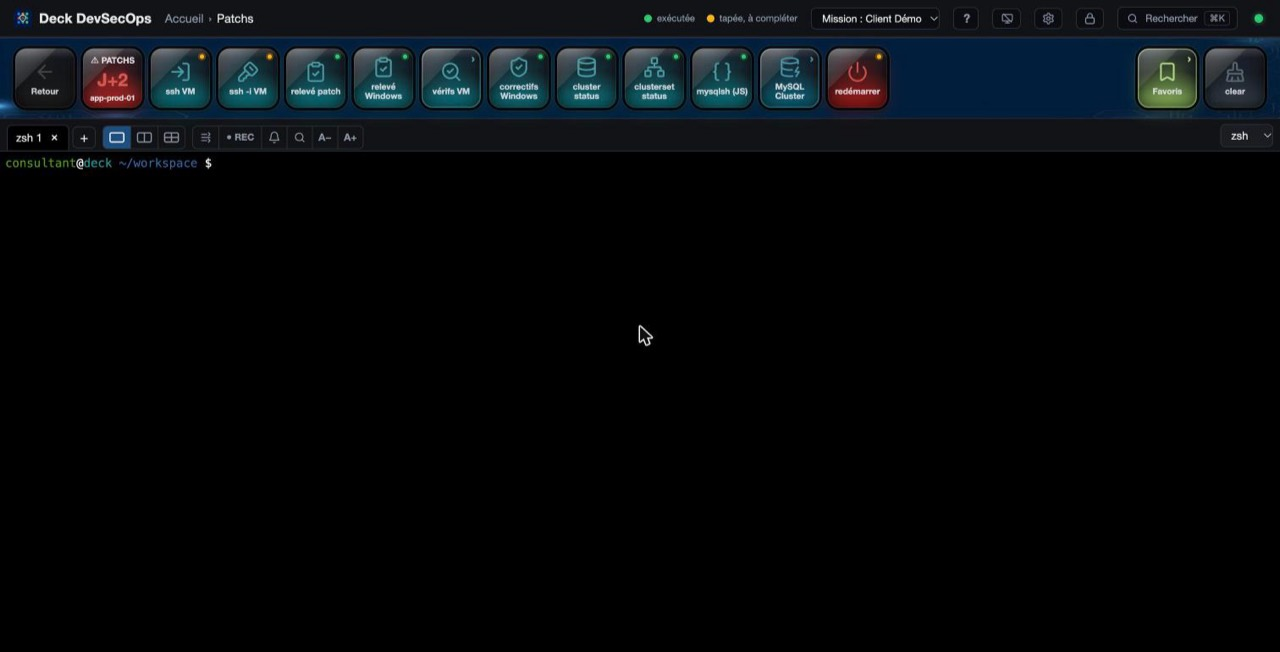
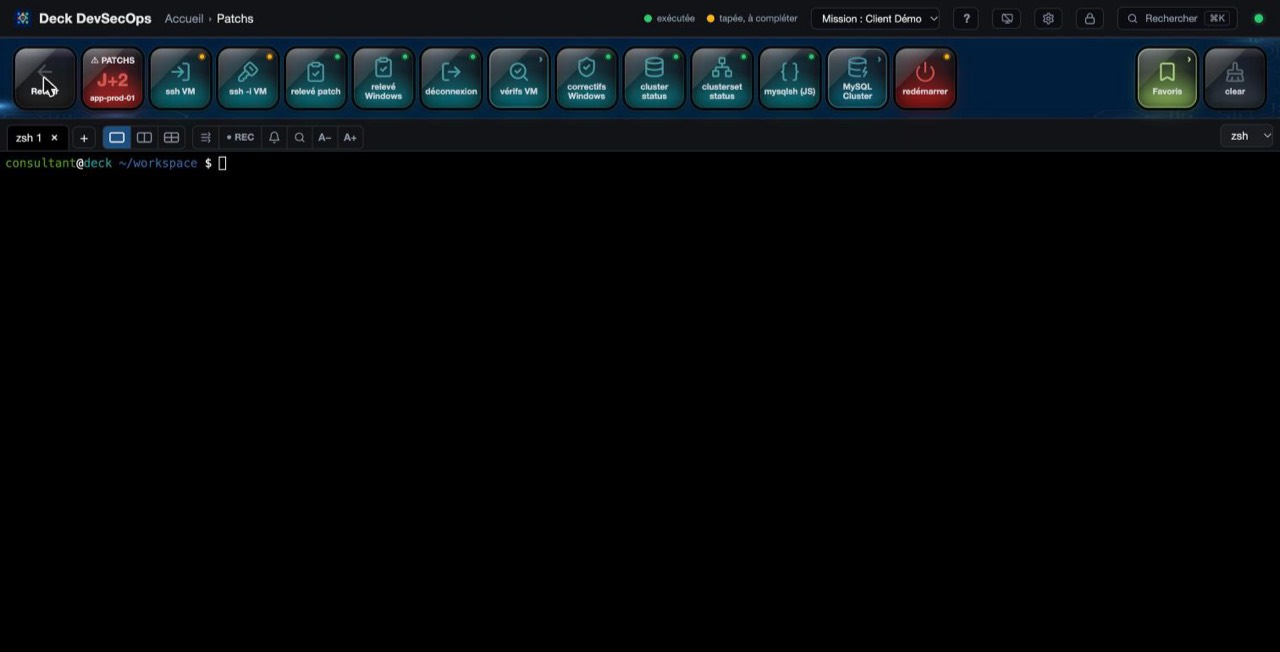
Patchs : MAJ (yum), infos VM, déconnexion ; historique corrigé
- vérifs VM : « infos VM » (hostnamectl, os-release, uname -r, uptime -s) et
  « MAJ (yum) » (RHEL / CentOS 7) ; sécurité seule et historique utilisent dnf
  ou yum selon la VM.
- historique : n'affichait rien sur une VM dnf (bash) et échouait sous zsh.
- « déconnexion » : exit seulement dans une session ssh (sans effet en local).

diff --git a/public/i18n/en.js b/public/i18n/en.js
@@ -60,6 +60,10 @@ export default {
     "Mises à jour en attente (Debian, Ubuntu)": "Pending updates (Debian, Ubuntu)",
     "Mises à jour en attente (RHEL, Rocky, Fedora)": "Pending updates (RHEL, Rocky, Fedora)",
     "Mises à jour de sécurité en attente": "Pending security updates",
+    "Mises à jour de sécurité en attente (dnf, yum ou apt)": "Pending security updates (dnf, yum or apt)",
+    "Mises à jour en attente avec yum (RHEL / CentOS 7 et plus anciennes)": "Pending updates with yum (RHEL / CentOS 7 and older)",
+    "Derniers paquets mis à jour (apt, dnf ou yum)": "Latest updated packages (apt, dnf or yum)",
+    "MAJ (yum)": "updates (yum)",
     "Un redémarrage est-il nécessaire ?": "Is a reboot needed?",
     "Noyau, uptime et dernier démarrage": "Kernel, uptime and last boot",
     "Derniers paquets mis à jour": "Latest updated packages",
@@ -1429,7 +1433,11 @@ export default {
     "relevé patch": "patch survey",
     "relevé Windows": "Windows survey",
     "vérifs VM": "VM checks",
-    "Vérifications détaillées sur la VM : MAJ (apt, dnf), sécurité, reboot, noyau, historique": "Detailed checks on the VM: updates (apt, dnf), security, reboot, kernel, history",
+    "infos VM": "VM info",
+    "déconnexion": "logout",
+    "Informations de la VM : hostnamectl, /etc/os-release, noyau (uname -r), dernier redémarrage (uptime -s)": "VM information: hostnamectl, /etc/os-release, kernel (uname -r), last reboot (uptime -s)",
+    "Quitte la session ssh de la VM (exit) ; sans effet dans un terminal local": "Leaves the VM's ssh session (exit); no effect in a local terminal",
+    "Vérifications détaillées sur la VM : infos (OS, noyau, dernier redémarrage), MAJ (apt, dnf, yum), sécurité, reboot, historique": "Detailed checks on the VM: info (OS, kernel, last reboot), updates (apt, dnf, yum), security, reboot, history",
     "Relève sur la VM connectée : dernier patch, MAJ en attente, sécurité, redémarrage ; l'inventaire est mis à jour": "Surveys the connected VM: last patch, pending updates, security, reboot; the inventory is updated",
     "Relève sur un serveur Windows (PowerShell) : dernier correctif (KB), redémarrage ; l'inventaire est mis à jour": "Surveys a Windows server (PowerShell): last hotfix (KB), reboot; the inventory is updated",
     "relevé de {0} : {1}": "survey of {0}: {1}",

diff --git a/README.md b/README.md
@@ -207,7 +207,7 @@ Après une modification de `config.jsonc` ou `paths.json`, redémarrer le serveu
 
 ## Patchs des VMs
 
-Rubrique **Patchs** (à cocher dans Réglages › Rubriques) : inventaire de tes VMs (nom, hôte SSH, clé SSH pour `ssh -i`, environnement, tags libres (`linux, dmz, critique`), description, dernier et prochain patch, fréquence) dans `patches.json` (hors Git, sauvegardé, inclus dans la configuration complète). Le **voyant patchs** affiche la VM la plus urgente (J-3, J, J+2 en retard) : vert, **orange à 7 jours ou moins**, **rouge à J-1, le jour même ou en retard** ; alertes une fois par seuil comme pour les certificats. **Patché** met le dernier patch à aujourd'hui et recalcule le prochain avec la fréquence (noté dans le journal). Touches **ssh VM** et **ssh -i VM** (clé puis hôte, listes réelles) ; **relevé patch** / **relevé Windows** : dans le terminal connecté à la VM, commande en lecture seule (sans sudo) qui imprime une ligne repère `DECK-PATCH …` lue par le deck : dernier patch réel (prochain recalculé), mises à jour en attente, sécurité, redémarrage requis ; **sécurité en attente = VM en orange** ; bouton **SSH** de l'inventaire avec la clé de la VM si elle est renseignée. Touches de vérification sur la VM après un ssh : mises à jour en attente (apt / dnf), sécurité, redémarrage requis, noyau, historique, correctifs Windows. **Import en masse** depuis un CSV (Excel : séparateur `;`, dates JJ/MM/AAAA ; colonnes nom, hote, cle, environnement, dernier_patch, prochain_patch, frequence, tags, description) avec aperçu avant confirmation (ajout ou mise à jour par nom, jamais de suppression), **export CSV** réimportable et modèle à remplir. **Terminal connecté à une VM** : cadre de couleur autour du terminal (rouge en production, bleu sinon), étiquette accrochée au cadre (« SSH · app-prod-01 · production ») et nom sur l'onglet : VM de l'inventaire, sinon l'hôte ; seule la destination est lue dans la commande ssh. Inventaire lisible (lignes alternées, ligne survolée, liseré d'urgence). **Filtres** par environnement, par tags (combinés) et par **état** (en retard, sous 7 j, plus tard, décommissionnée), avec le nombre de VMs ; **tri** par urgence, nom, environnement ou dates (menu, ou clic sur les titres de colonnes ; retenu). Touches **cluster status**, **clusterset status** et **mysqlsh (JS)** (MySQL InnoDB Cluster, à lancer sur un nœud après le ssh : `` mysqlsh root@`hostname` -- cluster status `` / `clusterset status --extended=1`, et `` mysqlsh root@`hostname` --js `` pour les commandes `dba.*` ; mot de passe demandé par mysqlsh). Sous-page **Patchs › MySQL Cluster** : commandes à lancer dans la session JS, lecture (status, status étendu, clusterset, describe, membres GR, GTID, start_on_boot ; `session.runSql(…)` pour rester en JS) et remédiation tapée sans Entrée (rejoin, forcer quorum, reboot outage, changer PRIMARY, retirer / ajouter un nœud par clone), nœud choisi parmi ceux du cluster de la VM connectée (`hôte:3306`, rôle affiché). **Tableau de bord** (en-tête de l'inventaire ou ⌘K) : chiffres clés (VMs suivies, en retard, sous 7 jours, clusters, VIP, décommissionnées), patch par environnement (barres par statut, détail au survol, vue tableau), prochains patchs sur 8 semaines, clusters (nœuds, PRIMARY, VIP, état), tags les plus fréquents, trois anneaux (état du parc, VMs par environnement, état des clusters) ; tout est cliquable (inventaire filtré sur les VMs concernées) ; **points de vigilance** regroupés par type (production avant sa recette, PRIMARY prévu avant ses SECONDARY ou non renseigné, nœuds d'un cluster le même jour, cluster MySQL sans VIP, redémarrage requis) et **ordre de patch proposé** (recette avant production, SECONDARY d'abord, bascule du PRIMARY, ancien PRIMARY en dernier ; copiable en Markdown). **VIP des clusters** (**✎ VIP** dans l'en-tête du cluster : `adresse[:port] [libellé]`, 10 au plus) : affichées dans l'en-tête, un clic tape `nc -zv <vip> <port>` sans Entrée ; recherche par adresse ; incluses dans la configuration complète. **VM décommissionnée** (case du formulaire, colonne CSV `decom`) : gardée dans l'inventaire, grisée et en fin de liste, hors suivi (voyant, alertes, calendrier, synthèse, listes de connexion), perd son rôle de PRIMARY ; **Remettre en service** la fait revenir ; un cluster dont tous les nœuds sont décommissionnés passe au gris. **Clusters** : champs Cluster, ClusterSet, Profil (standard ou MySQL InnoDB Cluster) et **Rôle** (PRIMARY / SECONDARY, un seul PRIMARY par cluster : l'ancien repasse SECONDARY) par VM, colonnes CSV `cluster`, `clusterset`, `profil`, `role` ; PRIMARY mis en avant (badge doré, en tête du cluster, rappelé dans l'en-tête) ; **⬡ par cluster** regroupe l'inventaire avec un en-tête par cluster (environnement, ClusterSet, nœuds, reboot requis, état le plus urgent). **Dupliquer** une VM : formulaire pré-rempli, nom suivant libre (`app-prod-01` → `app-prod-02`). Les touches qui demandent un hôte (**ssh VM**, **ssh -i VM**, rubrique SSH) proposent **les VMs de l'inventaire en tête** (nom et environnement affichés), la clé de la VM étant reprise pour `ssh -i`. Détails : [docs/13-patchs.md](docs/13-patchs.md).
+Rubrique **Patchs** (à cocher dans Réglages › Rubriques) : inventaire de tes VMs (nom, hôte SSH, clé SSH pour `ssh -i`, environnement, tags libres (`linux, dmz, critique`), description, dernier et prochain patch, fréquence) dans `patches.json` (hors Git, sauvegardé, inclus dans la configuration complète). Le **voyant patchs** affiche la VM la plus urgente (J-3, J, J+2 en retard) : vert, **orange à 7 jours ou moins**, **rouge à J-1, le jour même ou en retard** ; alertes une fois par seuil comme pour les certificats. **Patché** met le dernier patch à aujourd'hui et recalcule le prochain avec la fréquence (noté dans le journal). Touches **ssh VM** et **ssh -i VM** (clé puis hôte, listes réelles), **déconnexion** (`exit` seulement dans une session ssh) ; **relevé patch** / **relevé Windows** : dans le terminal connecté à la VM, commande en lecture seule (sans sudo) qui imprime une ligne repère `DECK-PATCH …` lue par le deck : dernier patch réel (prochain recalculé), mises à jour en attente, sécurité, redémarrage requis ; **sécurité en attente = VM en orange** ; bouton **SSH** de l'inventaire avec la clé de la VM si elle est renseignée. Touches de vérification sur la VM après un ssh (sous-page **vérifs VM**) : **infos VM** (hostnamectl, os-release, noyau, dernier redémarrage), mises à jour en attente (apt / dnf / yum), sécurité, redémarrage requis, noyau, historique, correctifs Windows. **Import en masse** depuis un CSV (Excel : séparateur `;`, dates JJ/MM/AAAA ; colonnes nom, hote, cle, environnement, dernier_patch, prochain_patch, frequence, tags, description) avec aperçu avant confirmation (ajout ou mise à jour par nom, jamais de suppression), **export CSV** réimportable et modèle à remplir. **Terminal connecté à une VM** : cadre de couleur autour du terminal (rouge en production, bleu sinon), étiquette accrochée au cadre (« SSH · app-prod-01 · production ») et nom sur l'onglet : VM de l'inventaire, sinon l'hôte ; seule la destination est lue dans la commande ssh. Inventaire lisible (lignes alternées, ligne survolée, liseré d'urgence). **Filtres** par environnement, par tags (combinés) et par **état** (en retard, sous 7 j, plus tard, décommissionnée), avec le nombre de VMs ; **tri** par urgence, nom, environnement ou dates (menu, ou clic sur les titres de colonnes ; retenu). Touches **cluster status**, **clusterset status** et **mysqlsh (JS)** (MySQL InnoDB Cluster, à lancer sur un nœud après le ssh : `` mysqlsh root@`hostname` -- cluster status `` / `clusterset status --extended=1`, et `` mysqlsh root@`hostname` --js `` pour les commandes `dba.*` ; mot de passe demandé par mysqlsh). Sous-page **Patchs › MySQL Cluster** : commandes à lancer dans la session JS, lecture (status, status étendu, clusterset, describe, membres GR, GTID, start_on_boot ; `session.runSql(…)` pour rester en JS) et remédiation tapée sans Entrée (rejoin, forcer quorum, reboot outage, changer PRIMARY, retirer / ajouter un nœud par clone), nœud choisi parmi ceux du cluster de la VM connectée (`hôte:3306`, rôle affiché). **Tableau de bord** (en-tête de l'inventaire ou ⌘K) : chiffres clés (VMs suivies, en retard, sous 7 jours, clusters, VIP, décommissionnées), patch par environnement (barres par statut, détail au survol, vue tableau), prochains patchs sur 8 semaines, clusters (nœuds, PRIMARY, VIP, état), tags les plus fréquents, trois anneaux (état du parc, VMs par environnement, état des clusters) ; tout est cliquable (inventaire filtré sur les VMs concernées) ; **points de vigilance** regroupés par type (production avant sa recette, PRIMARY prévu avant ses SECONDARY ou non renseigné, nœuds d'un cluster le même jour, cluster MySQL sans VIP, redémarrage requis) et **ordre de patch proposé** (recette avant production, SECONDARY d'abord, bascule du PRIMARY, ancien PRIMARY en dernier ; copiable en Markdown). **VIP des clusters** (**✎ VIP** dans l'en-tête du cluster : `adresse[:port] [libellé]`, 10 au plus) : affichées dans l'en-tête, un clic tape `nc -zv <vip> <port>` sans Entrée ; recherche par adresse ; incluses dans la configuration complète. **VM décommissionnée** (case du formulaire, colonne CSV `decom`) : gardée dans l'inventaire, grisée et en fin de liste, hors suivi (voyant, alertes, calendrier, synthèse, listes de connexion), perd son rôle de PRIMARY ; **Remettre en service** la fait revenir ; un cluster dont tous les nœuds sont décommissionnés passe au gris. **Clusters** : champs Cluster, ClusterSet, Profil (standard ou MySQL InnoDB Cluster) et **Rôle** (PRIMARY / SECONDARY, un seul PRIMARY par cluster : l'ancien repasse SECONDARY) par VM, colonnes CSV `cluster`, `clusterset`, `profil`, `role` ; PRIMARY mis en avant (badge doré, en tête du cluster, rappelé dans l'en-tête) ; **⬡ par cluster** regroupe l'inventaire avec un en-tête par cluster (environnement, ClusterSet, nœuds, reboot requis, état le plus urgent). **Dupliquer** une VM : formulaire pré-rempli, nom suivant libre (`app-prod-01` → `app-prod-02`). Les touches qui demandent un hôte (**ssh VM**, **ssh -i VM**, rubrique SSH) proposent **les VMs de l'inventaire en tête** (nom et environnement affichés), la clé de la VM étant reprise pour `ssh -i`. Détails : [docs/13-patchs.md](docs/13-patchs.md).
 
 **Échéances** (bouton Calendrier, ou ⌘K) : calendrier du mois des prochains patchs et des expirations de certificats, liste du retard et des 60 prochains jours, **export .ics** pour Outlook / Google Agenda (rappel 3 j avant en production, 1 j sinon ; réimporter met à jour sans dupliquer). **Synthèse du client** (⌘K) : état de la mission (contexte kubectl, certificats et VMs par environnement, à traiter, échéances à 30 jours, actions en production des 7 derniers jours), à copier en Markdown ou télécharger. Détails : [docs/14-echeances-et-synthese.md](docs/14-echeances-et-synthese.md).
 

diff --git a/docs/13-patchs.md b/docs/13-patchs.md
@@ -15,11 +15,15 @@ Active-la dans **Réglages › Rubriques** (case **Patchs**). Elle contient :
 - **ssh VM** : choisis la VM dans la liste ;
 - **ssh -i VM** : choisis la VM, sa **clé** est reprise de l'inventaire (sinon choisis-la parmi tes clés privées de
   `~/.ssh`) → `ssh -i <clé> <hôte>` ;
+- **déconnexion** : quitte la session ssh de la VM (`exit`) ; sans effet dans un terminal local (rien à quitter : le
+  terminal n'est pas fermé par erreur) ;
 - **relevé patch** / **relevé Windows** : l'état réel de la VM connectée (dernier patch, mises à jour, sécurité,
   redémarrage), qui met l'inventaire à jour, voir [Relevé patch](#relevé-patch--létat-réel-de-la-vm) ;
 - **vérifs VM** : la sous-page des vérifications détaillées à lancer **sur la VM** (après le ssh ; le relevé les
-  résume) : mises à jour en attente (**MAJ (apt)**, **MAJ (dnf)**), **sécurité seule**, **reboot requis ?**, **noyau
-  et boot**, **historique** des derniers paquets ; sous Windows, elles s'activent une fois le terminal connecté en ssh ;
+  résume) : **infos VM** (`hostnamectl`, `/etc/os-release`, noyau en cours `uname -r`, dernier redémarrage
+  `uptime -s`, toutes distributions), mises à jour en attente (**MAJ (apt)**, **MAJ (dnf)**, **MAJ (yum)** pour RHEL / CentOS 7 et plus
+  anciennes), **sécurité seule** et **historique** des derniers paquets (apt, dnf ou yum, détecté sur la VM),
+  **reboot requis ?**, **noyau et boot** ; sous Windows, elles s'activent une fois le terminal connecté en ssh ;
 - **redémarrer** : redémarre la VM dans 1 min (tapée, à valider) ;
 - **correctifs Windows** : les 10 derniers KB installés (PowerShell) ;
 - **MySQL InnoDB Cluster**, depuis un terminal connecté à un nœud du cluster (lecture seule, mysqlsh demande le mot

diff --git a/docs/en/13-patchs.md b/docs/en/13-patchs.md
@@ -15,11 +15,14 @@ Enable it in **Settings › Sections** (**Patches** box). It contains:
 - **ssh VM**: pick the VM in the list;
 - **ssh -i VM**: pick the VM; its **key** is taken from the inventory (otherwise pick one of your private keys in
   `~/.ssh`) → `ssh -i <key> <host>`;
+- **logout**: leaves the VM's ssh session (`exit`); no effect in a local terminal (nothing to leave: the terminal is
+  not closed by mistake);
 - **patch survey** / **Windows survey**: the connected VM's real state (last patch, updates, security, reboot), which
   updates the inventory, see [Patch survey](#patch-survey-the-vms-real-state);
-- **VM checks**: the sub-page of detailed checks to run **on the VM** (after the ssh; the survey sums them up): pending
-  updates (**updates (apt)**, **updates (dnf)**), **security only**, **reboot needed?**, **kernel & boot**, **history**
-  of the latest packages; on Windows, they are enabled once the terminal is connected over ssh;
+- **VM checks**: the sub-page of detailed checks to run **on the VM** (after the ssh; the survey sums them up): **VM
+  info** (`hostnamectl`, `/etc/os-release`, running kernel `uname -r`, last reboot `uptime -s`, any distribution), pending
+  updates (**updates (apt)**, **updates (dnf)**, **updates (yum)** for RHEL / CentOS 7 and older), **security only** and
+  **history** of the latest packages (apt, dnf or yum, detected on the VM), **reboot needed?**, **kernel & boot**; on Windows, they are enabled once the terminal is connected over ssh;
 - **reboot**: reboots the VM in 1 min (typed, to confirm);
 - **Windows hotfixes**: the last 10 KBs installed (PowerShell);
 - **MySQL InnoDB Cluster**, from a terminal connected to a node of the cluster (read only; mysqlsh asks for the root
